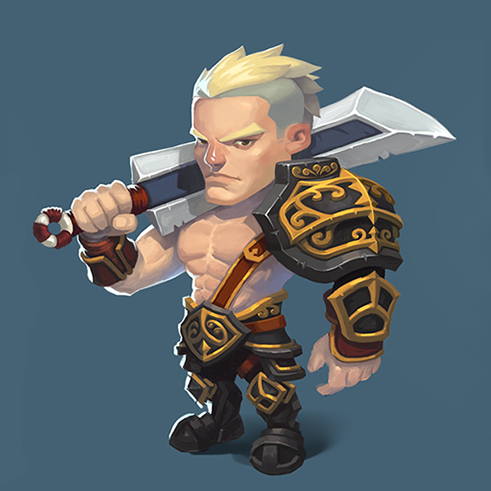
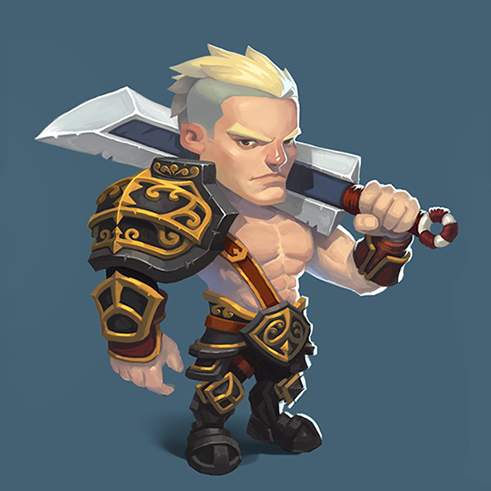
flip pics characters, added file path for treasure pictures

diff --git a/game_files/treasures.py b/game_files/treasures.py
@@ -9,6 +9,7 @@ class Treasure:
         self._name = "Treasure"
         self._value = 0
         self._rarity = 0
+        self.image = 'data/images/coins.png'
 
     def set_name(self, new_name):
         if not isinstance(new_name, str):
@@ -43,6 +44,7 @@ class Coins(Treasure):
         self._name = "Coins"
         self._value = 2
         self._rarity = 40
+        self.image = 'data/images/coins.png'
 
 
 class Coin_pouch(Treasure):
@@ -53,6 +55,7 @@ class Coin_pouch(Treasure):
         self._name = "Coin pouch"
         self._value = 6
         self._rarity = 20
+        self.image = 'data/images/coin_pouch.png'
 
 
 class Gold_jewelry(Treasure):
@@ -63,6 +66,7 @@ class Gold_jewelry(Treasure):
         self._name = "Gold jewelry"
         self._value = 10
         self._rarity = 15
+        self.image = 'data/images/gold_jewelry.png'
 
 
 class Gemstone(Treasure):
@@ -73,6 +77,7 @@ class Gemstone(Treasure):
         self._name = "Gemstone"
         self._value = 14
         self._rarity = 10
+        self.image = 'data/images/gemstone.png'
 
 
 class Treasure_chest(Treasure):
@@ -83,3 +88,4 @@ class Treasure_chest(Treasure):
         self._name = "Treasure chest"
         self._value = 20
         self._rarity = 5
+        self.image = 'data/images/treasure_chest.png'
